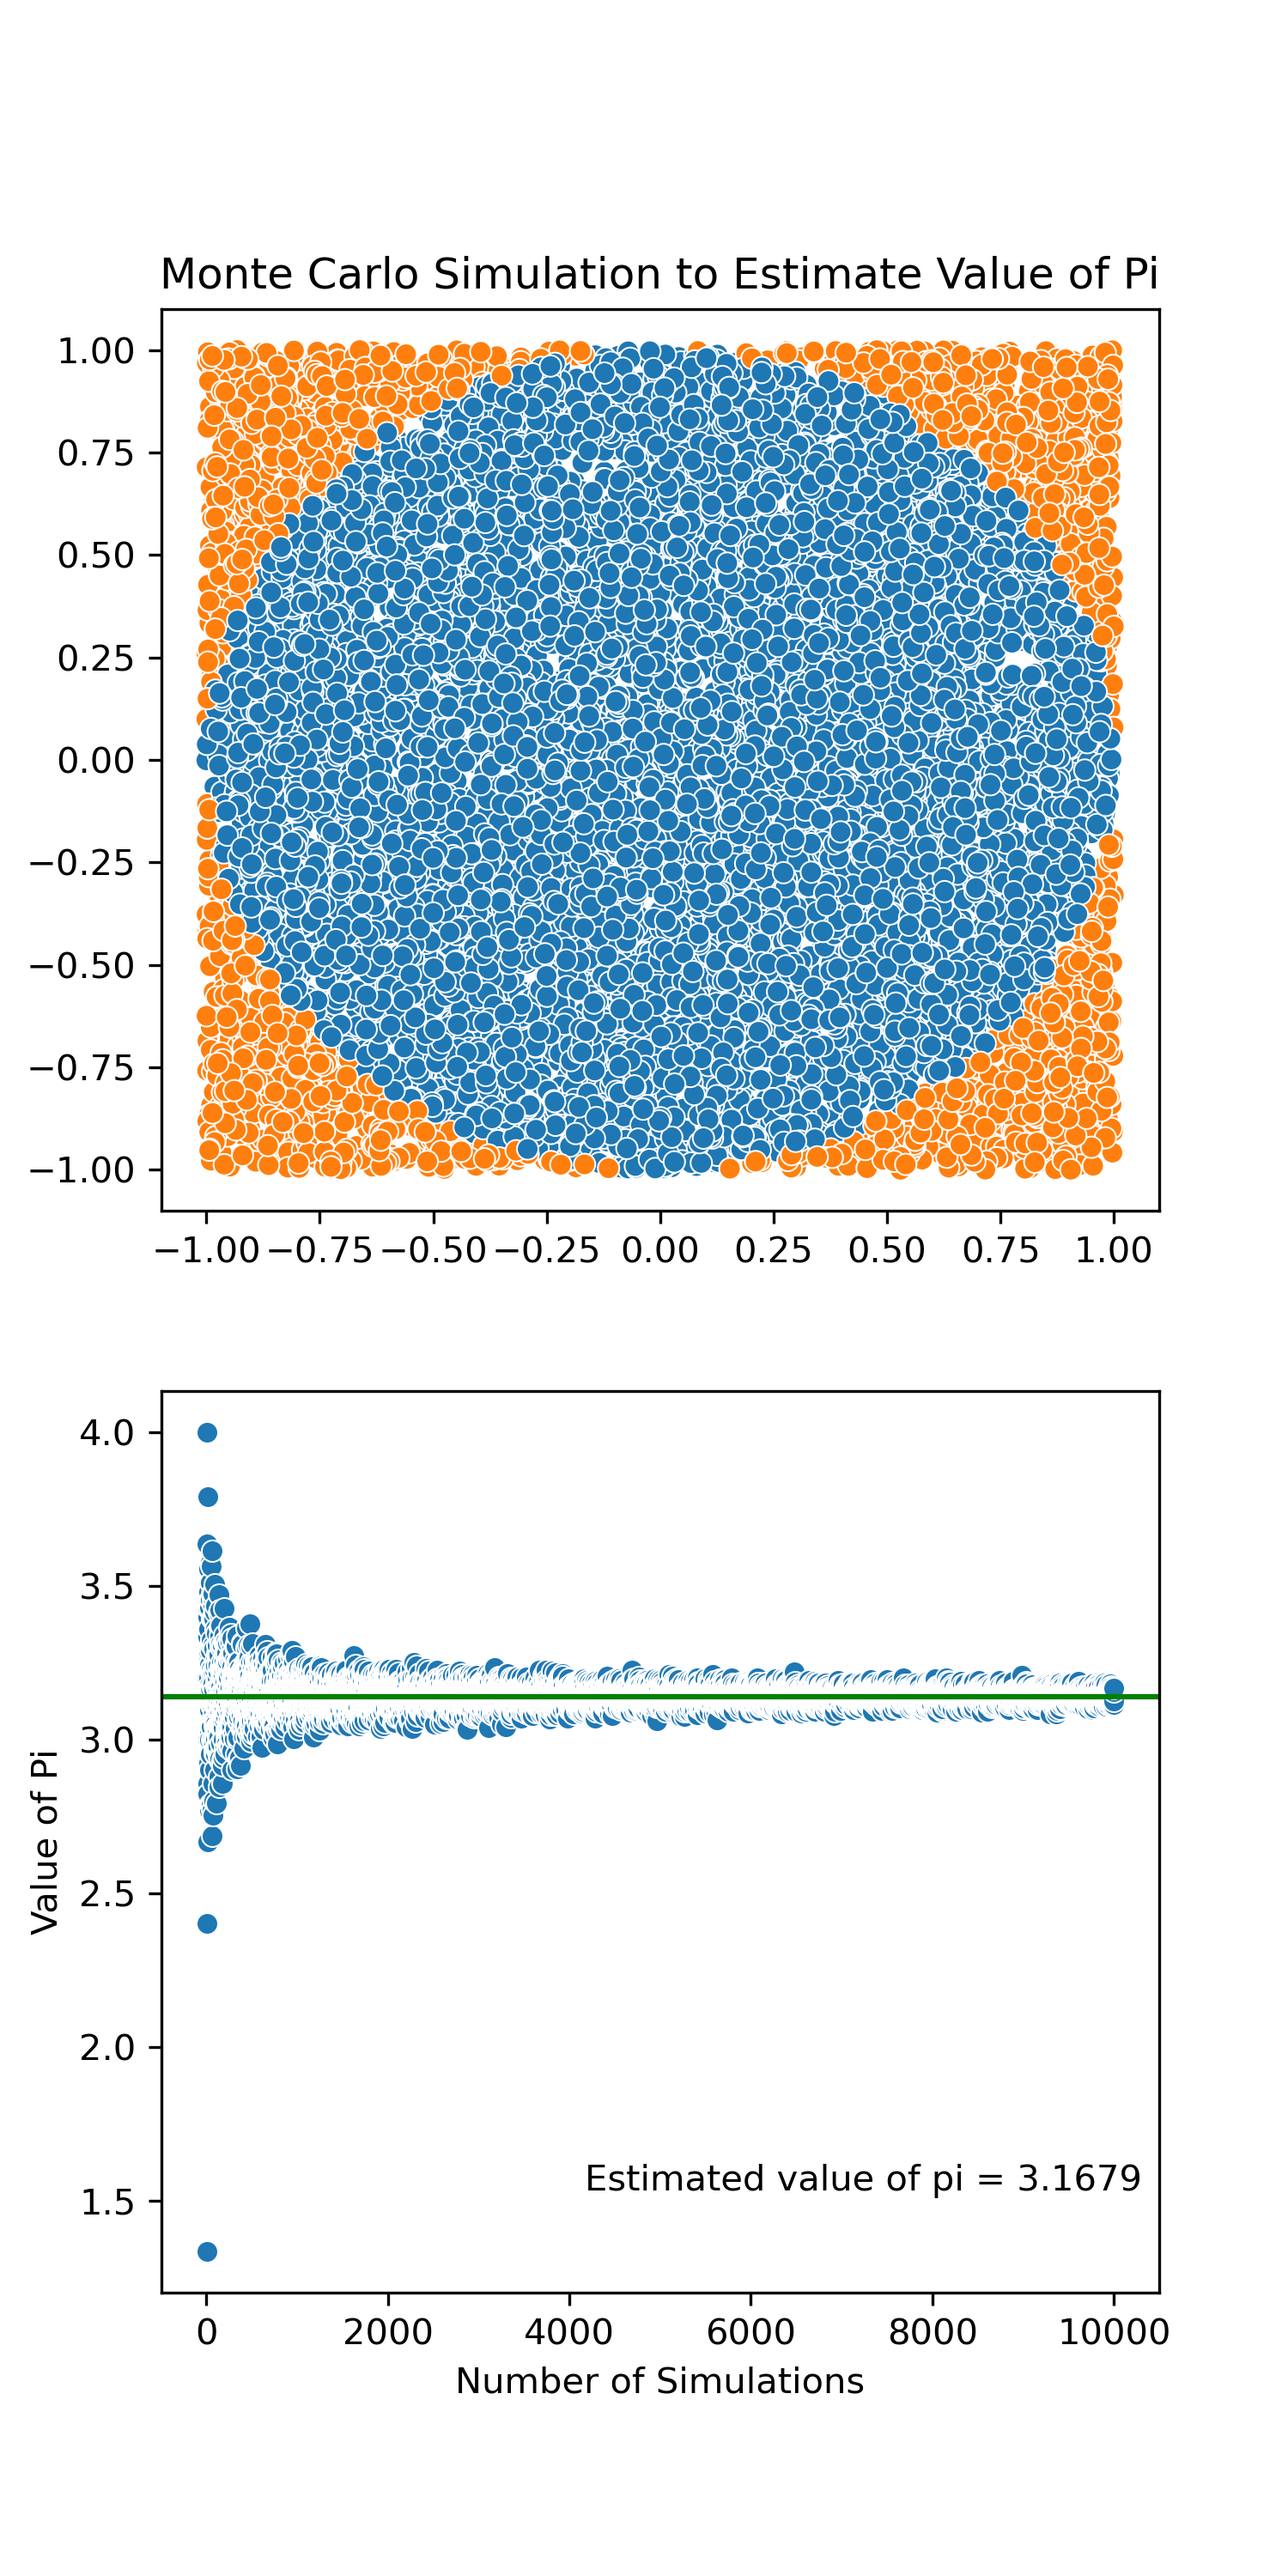
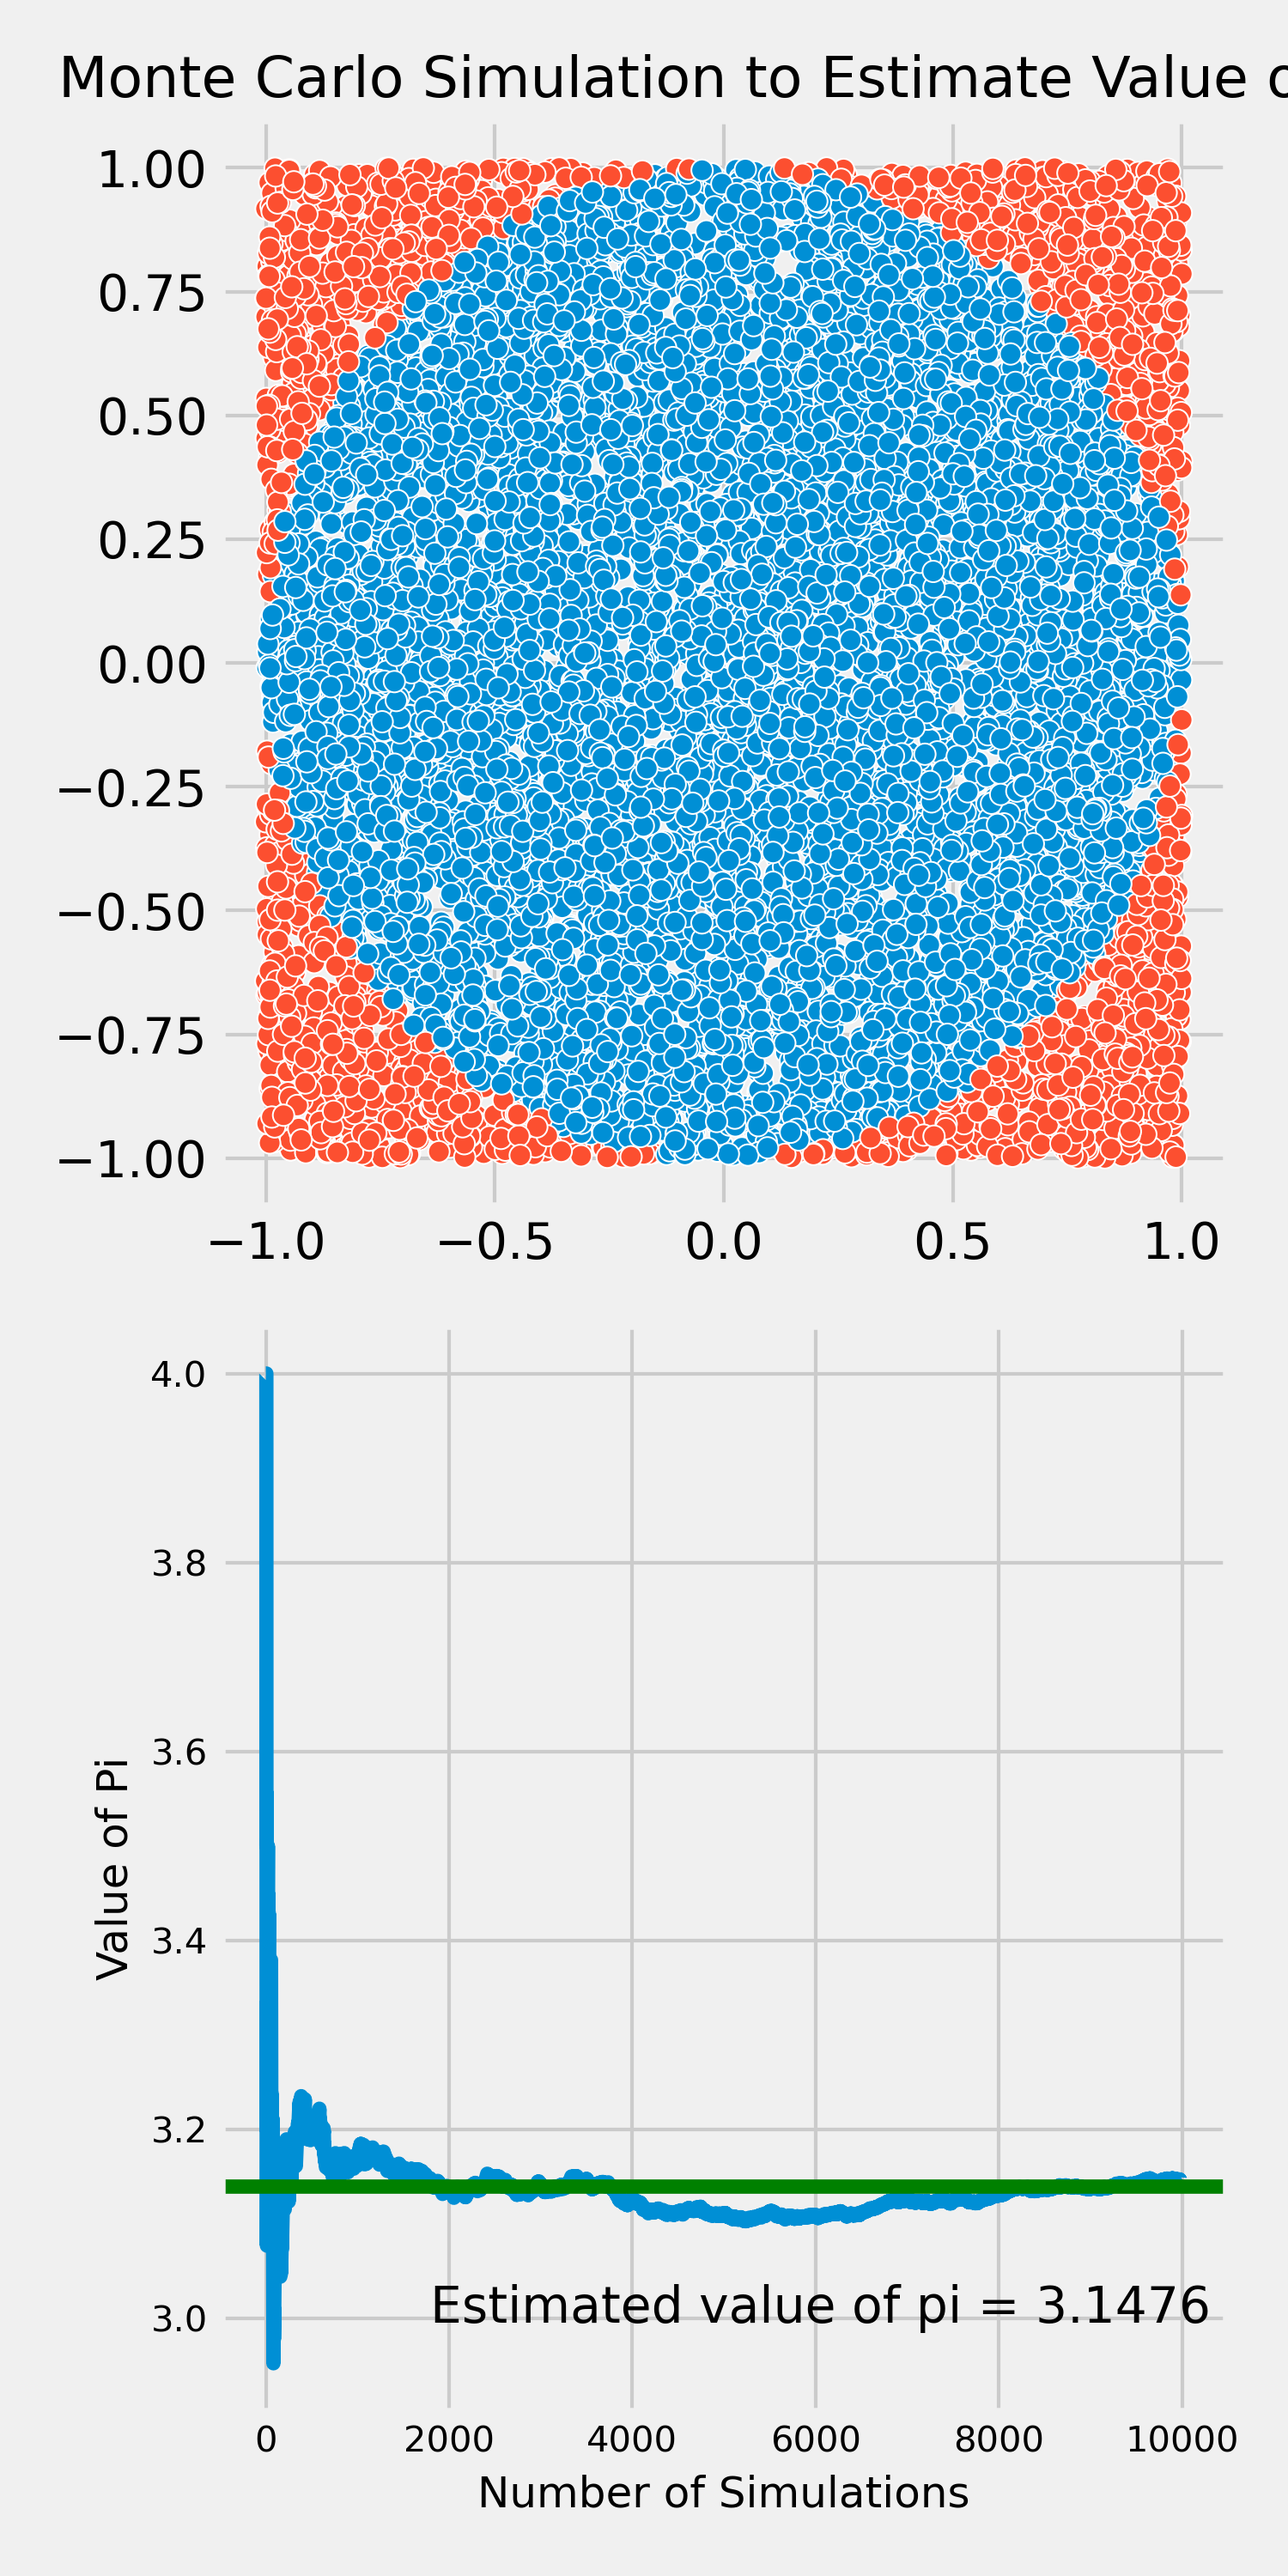
Modified pi script

diff --git a/pi.py b/pi.py
@@ -1,0 +1,109 @@
+"""
+Here we'll use Monte Carlo simulations to approximate the value of π
+
+Imagine we square canvas contaning a circular dartboard, centered and tangent with the side of a square.
+A dart thrower has an equal probability of hitting anywhere on the canvas.
+
+We can calculate the probability of hitting the circular board:
+
+p(hit) = number of dart in circle/total number of darts thrown
+
+Since the thrower always hits the canvas, we can rewrite this as:
+
+p(hit) = area of circle/area of square
+
+If the circle has radius r, we can rewrite the equation:
+
+p(hit) = πr^2/2(r^2) = πr^2/4r^2)
+p(hit) = π/4
+π = 4*p(hit)
+
+---------------------------------------------------------
+π = 4 * num of darts in circle/total num of darts thrown
+---------------------------------------------------------
+
+If we throw an infinite amount of darts at the canvas, we can obtain a good approximation for the value of π
+We'll use Monte Carlo simulations to simulate throw outcomes.
+
+"""
+
+# Importing libraries
+import random
+import numpy as np
+from numpy import random
+import matplotlib.pyplot as plt
+import seaborn as sns
+
+
+
+
+num_sims = 10000  # Number of simulations
+
+all_pis = []
+
+def estimate_pi(simulations):
+    # Simulating dart throws on a board with radius = 1
+    hits = 0  # Counter for the number of "darts that fall inside the circle"
+    inside_outside = [
+    ]  # Array to contain all the dart outcomes; used for plotting
+
+    all_x = []
+    all_y = []
+
+    for sim in range(1, num_sims):
+        x = np.random.uniform(-1, 1)
+        all_x.append(x)
+        y = np.random.uniform(-1, 1)
+        all_y.append(y)
+
+        d = np.sqrt(
+            x**2 + y**2
+        )  # We can use Pythagoras' formula to calculate the distance of the dot from the center of the circle
+        if (d) < 1:
+            hits += 1
+            inside_outside.append(1)
+        else:
+            inside_outside.append(0)
+
+        temp_pi = 4 * hits / sim
+        all_pis.append(temp_pi)
+
+    hit_or_miss = np.where(np.array(inside_outside) == 1, 'hit', 'miss')
+
+    pi = 4 * hits / num_sims
+    print(f'The estimated value of π is {pi}')
+
+    # Plotting the results
+
+    fig = plt.figure(figsize=(5, 10))
+    plt.style.use('fivethirtyeight')
+
+    ax1 = fig.add_subplot(211)
+    ax1.set_title('Monte Carlo Simulation to Estimate Value of Pi',
+                  fontsize=16)
+    ax1 = sns.scatterplot(all_x, all_y, hue=hit_or_miss, legend=False)
+
+    ax2 = fig.add_subplot(212)
+    ax2 = plt.plot(all_pis)
+    plt.xlabel('Number of Simulations', fontsize=12)
+    plt.ylabel('Value of Pi', fontsize=12)
+
+    plt.axhline(y=3.14, color='g', linestyle='-')
+    plt.annotate(f'Estimated value of pi = {pi}',
+                 xy=(1, 0),
+                 xycoords='axes fraction',
+                 xytext=(-20, 150),
+                 textcoords='offset pixels',
+                 horizontalalignment='right',
+                 verticalalignment='top')
+    plt.xticks(fontsize=10)
+    plt.yticks(fontsize=10)
+    # ax2.ylabel('Value of Pi')
+    # ax2.xlabel('Number of Simulations')
+
+    plt.tight_layout()
+    plt.show()
+    fig.savefig('images/monte_carlo_pi_estimation.png', dpi=300)
+
+
+estimate_pi(100)
